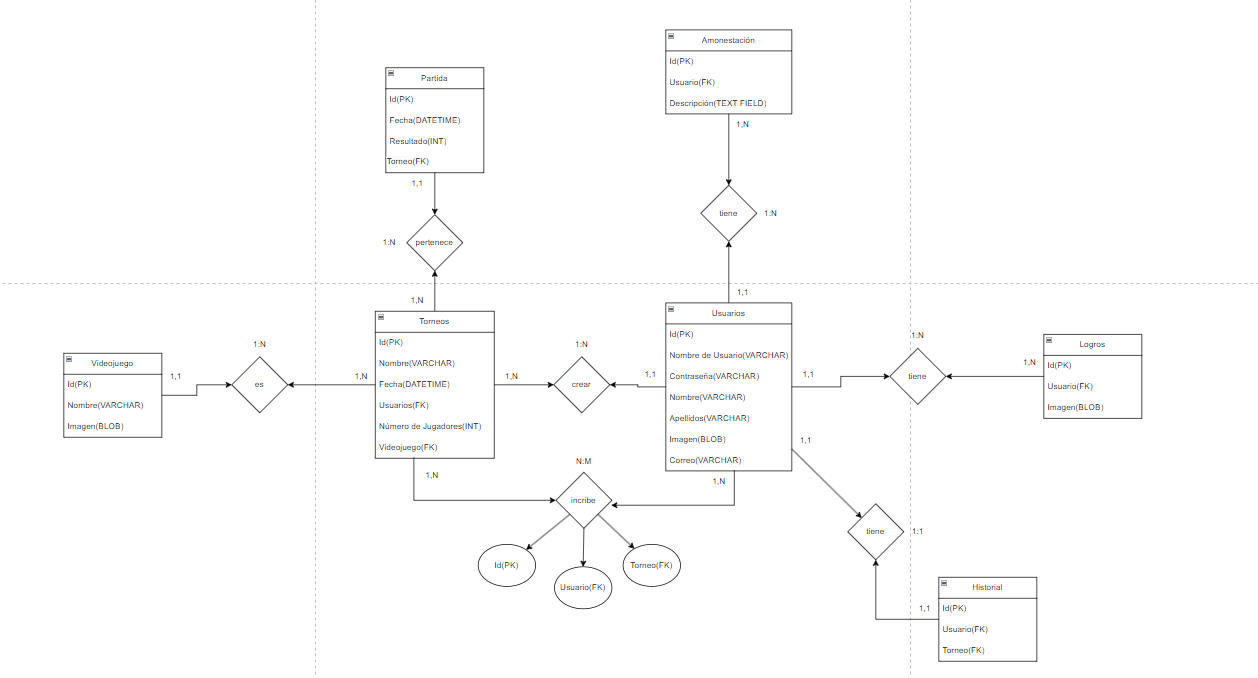
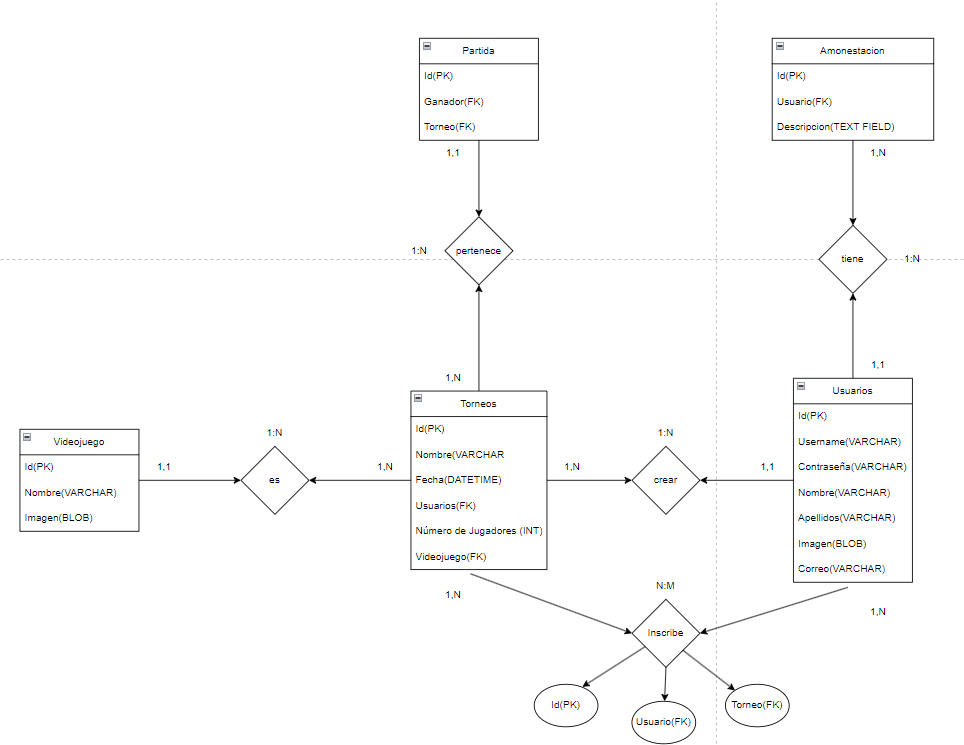
arreglado error al inscribirse a un torneo y añadido diagram E/R

diff --git a/torneosonline/templates/torneosonline/Torneos.html b/torneosonline/templates/torneosonline/Torneos.html
@@ -100,25 +100,24 @@
                 const torneoId = boton.id;
                 const nombreTorneo = boton.getAttribute('nombreTorneo');
 
-                fetch('/torneos/inscribirse/'+torneoId, {
-                    method: 'POST',
-                    headers: {
-                        "X-CSRFToken": "{{ csrf_token }}"
-                    }
-                })
-                .then((response) => {
-                    if (response.ok) {
-                        if (confirm(`Estas a punto de inscribirte al torneo ${nombreTorneo}. ¿Deseas continuar?`)) {
-                            window.location.href = "{% url 'Videojuegos' %}";
+                if (confirm(`Estás a punto de inscribirte al torneo ${nombreTorneo}. ¿Deseas continuar?`)) {
+                    fetch('/torneos/inscribirse/' + torneoId, {
+                        method: 'POST',
+                        headers: {
+                            "X-CSRFToken": "{{ csrf_token }}"
                         }
-                    }
-                    else{
-                        alert("Error al intentar inscribirse al torneo, intentelo de nuevo más tarde.");
-                    }
-                })
-                .catch((error) => {
-                    alert("Error al intentar inscribirse al torneo, intentelo de nuevo más tarde.");
-                });
+                    })
+                    .then((response) => {
+                        if (response.ok) {
+                            window.location.href = "{% url 'Videojuegos' %}";
+                        } else {
+                            alert("Error al intentar inscribirse al torneo, inténtelo de nuevo más tarde.");
+                        }
+                    })
+                    .catch((error) => {
+                        alert("Error al intentar inscribirse al torneo, inténtelo de nuevo más tarde.");
+                    });
+                }
             })
         })
 
@@ -126,26 +125,26 @@
             boton.addEventListener('click', () => {
                 const torneoId = boton.id;
                 const nombreTorneo = boton.getAttribute('nombreTorneo');
-                
-                fetch('/torneos/desinscribirse/'+torneoId, {
-                    method: 'POST',
-                    headers: {
-                        "X-CSRFToken": "{{ csrf_token }}"
-                    }
-                })
-                .then((response) => {
-                    if (response.ok) {
-                        if (confirm(`Estas a punto de cancelar tu inscripción al torneo ${nombreTorneo}. ¿Deseas continuar?`)) {
+
+                if (confirm(`Estas a punto de cancelar tu inscripción al torneo ${nombreTorneo}. ¿Deseas continuar?`)) {
+                    fetch('/torneos/desinscribirse/'+torneoId, {
+                        method: 'POST',
+                        headers: {
+                            "X-CSRFToken": "{{ csrf_token }}"
+                        }
+                    })
+                    .then((response) => {
+                        if (response.ok) {
                             window.location.href = "{% url 'Videojuegos' %}";
                         }
-                    }
-                    else{
+                        else{
+                            alert("Error al intentar desinscribirse al torneo, intentelo de nuevo más tarde.");
+                        }
+                    })
+                    .catch((error) => {
                         alert("Error al intentar desinscribirse al torneo, intentelo de nuevo más tarde.");
-                    }
-                })
-                .catch((error) => {
-                    alert("Error al intentar desinscribirse al torneo, intentelo de nuevo más tarde.");
-                });
+                    });
+                }
             })
         })
     </script>

diff --git a/torneosonline/templates/torneosonline/administracion/videojuegos/AdministracionVideojuegos.html b/torneosonline/templates/torneosonline/administracion/videojuegos/AdministracionVideojuegos.html
@@ -2,29 +2,30 @@
 
 
 {% block content %}
-<div class="container mt-5" style="background-color: #1F2833; border-radius: 8px;">
-    <h1 class="text-center">Videojuegos</h1>
-    <a href="{%url 'CrearVideojuegos'%}" style="text-decoration:none;"><h2 class="text-center">Crear Videojuego</h2></a>
-    <div class="row">
-        {% for videojuego in videojuegos %}
-                    <div class="col-md-3 mb-4 mt-4">
-                        <div>
-                            <!-- Usar la función slugify para que en la url los espacios en las palabras salga con un guión. Ej: call-of-duty -->
-                            <div class="card" style="background-image: url({{videojuego.imagen.url}}); background-size: cover; width: 100%; height: 200px">
+
+    <div class="container mt-5" style="background-color: #1F2833; border-radius: 8px;">
+        <h1 class="text-center">Videojuegos</h1>
+        <a href="{%url 'CrearVideojuegos'%}" style="text-decoration:none;"><h2 class="text-center">Crear Videojuego</h2></a>
+        <div class="row">
+            {% for videojuego in videojuegos %}
+                        <div class="col-md-3 mb-4 mt-4">
+                            <div>
+                                <!-- Usar la función slugify para que en la url los espacios en las palabras salga con un guión. Ej: call-of-duty -->
+                                <div class="card" style="background-image: url({{videojuego.imagen.url}}); background-size: cover; width: 100%; height: 200px">
+                                </div>
+                                <div id="nombreJuego" class="text-center">
+                                    <h5>{{videojuego}}</h5>
+                                </div>
                             </div>
-                            <div id="nombreJuego" class="text-center">
-                                <h5>{{videojuego}}</h5>
+                            <div class="mt-3">
+                                <a href="{%url 'EditarVideojuegos' pk=videojuego.pk%}"><button class="btn btn-primary mb-4">Editar</button></a>
+                                <button class="btn btn-danger mb-4 btnEliminar" id="{{videojuego.pk}}">Eliminar</button>
                             </div>
                         </div>
-                        <div class="mt-3">
-                            <a href="{%url 'EditarVideojuegos' pk=videojuego.pk%}"><button class="btn btn-primary mb-4">Editar</button></a>
-                            <button class="btn btn-danger mb-4 btnEliminar" id="{{videojuego.pk}}">Eliminar</button>
-                        </div>
-                    </div>
-        {% endfor %}
+            {% endfor %}
+        </div>
+        <a href="{% url 'AdministracionPrincipal'%}"><button class="btn btn-proyecto mb-4">Volver a la Administración principal</button></a>
     </div>
-    <a href="{% url 'AdministracionPrincipal'%}"><button class="btn btn-proyecto mb-4">Volver a la Administración principal</button></a>
-</div>
 
 {% endblock content %}
     
